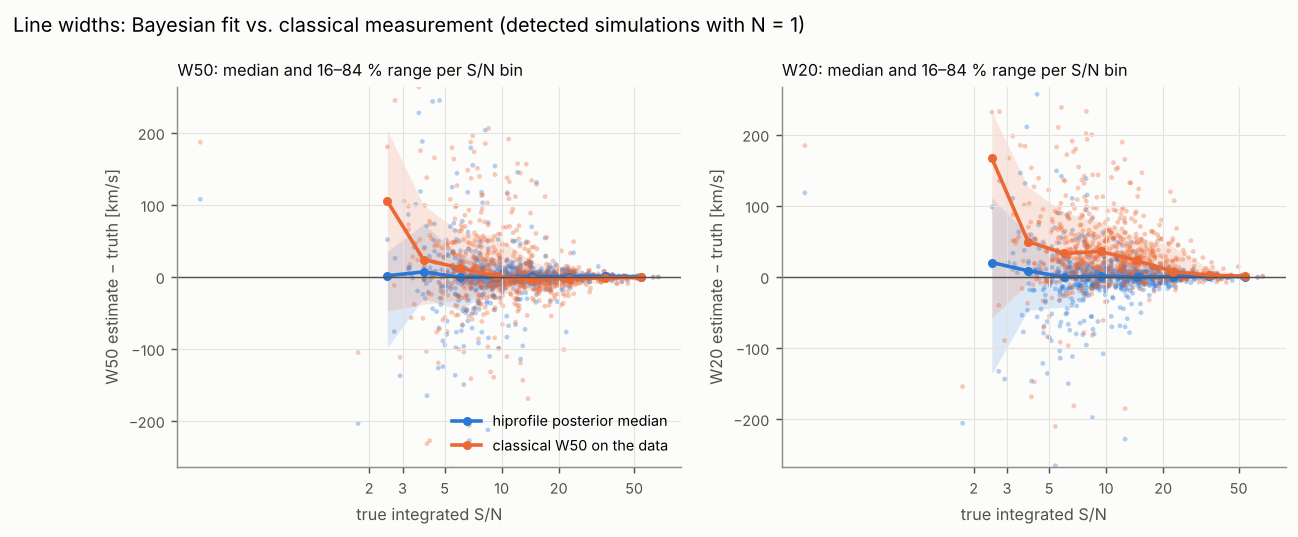
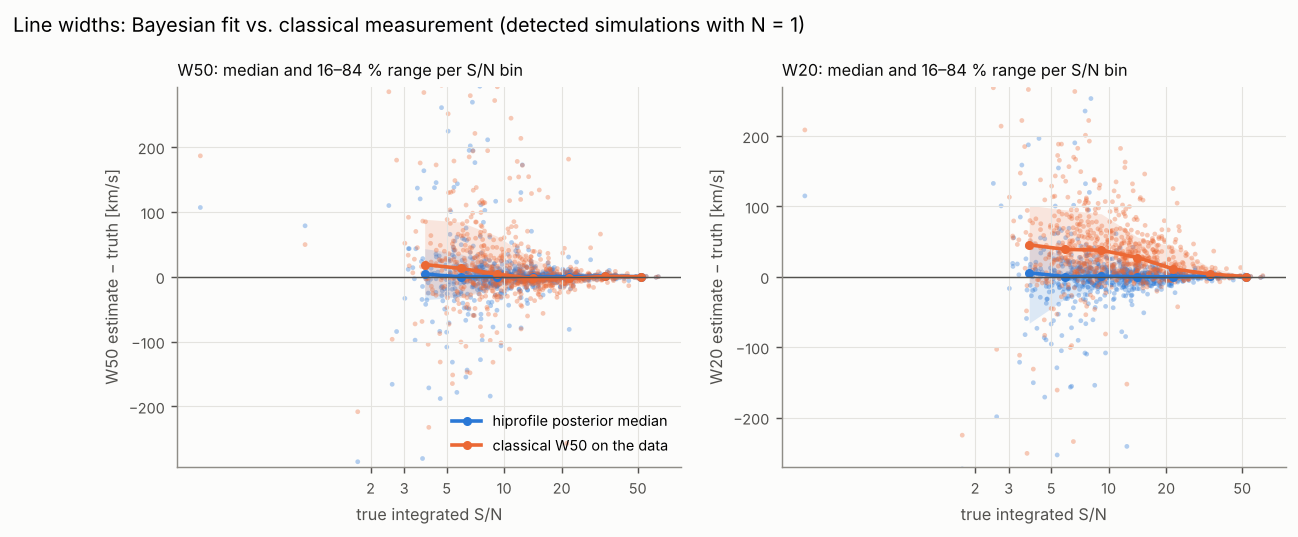
Validation with the Beta(1, 3) f prior: SBC, bias study, gallery
SBC with simulations drawn from the new prior stays calibrated (rank
p > 0.2, coverages 0.66-0.70 and 0.94-0.96); prior_edge falls from 7.2 to
5.7 %. The pull of the posterior median on a 430 km/s line at S/N 5
halves (-45 -> -20 km/s).

Claude-Session: https://claude.ai/code/session_01HNuVsUUJVtD1RaQHWi7F3J

diff --git a/docs/validation.md b/docs/validation.md
@@ -17,25 +17,26 @@ bias study.
 Every simulation is drawn from the fit priors: the five shape parameters,
 the flux (half-normal with the default `amplitude_scale`), and a Chebyshev
 baseline of order K ~ U{0, …, 3} with coefficients from the baseline prior;
-white noise with σ = 0.01 Jy on 512 channels of 5 km/s. The fit uses the same
+white noise with σ = 0.01 Jy on 512 channels of 5 km/s. The solid-body
+fraction comes from its default prior Beta(1, 3). The fit uses the same
 priors with the order marginalised (`k_min = 0`, `k_max = 3`). The rank of
 the truth among 99 posterior draws must then be uniform, and the posterior
 intervals must cover the truth at their nominal rate.
 
 | parameter | rank p-value | 68 % coverage | 95 % coverage |
 |---|---|---|---|
-| v_ctr | 0.55 | 0.68 | 0.96 |
-| Δv | 0.78 | 0.68 | 0.94 |
-| Δv_rand | 0.71 | 0.69 | 0.95 |
-| α | 0.74 | 0.67 | 0.95 |
-| S | 0.30 | 0.67 | 0.95 |
-| f | 0.31 | 0.70 | 0.94 |
-| W50 | 0.84 | 0.69 | 0.94 |
-| W20 | 0.54 | 0.69 | 0.94 |
+| v_ctr | 0.77 | 0.69 | 0.96 |
+| Δv | 0.52 | 0.68 | 0.94 |
+| Δv_rand | 0.43 | 0.69 | 0.94 |
+| α | 0.22 | 0.66 | 0.95 |
+| S | 0.63 | 0.67 | 0.95 |
+| f | 0.31 | 0.70 | 0.95 |
+| W50 | 0.88 | 0.70 | 0.95 |
+| W20 | 0.99 | 0.67 | 0.94 |
 
 ![SBC: rank histograms, interval coverage and baseline-order calibration](img/sbc.png)
 
-All rank histograms are flat (no U shape, slope or peak; all p > 0.3), and
+All rank histograms are flat (no U shape, slope or peak; all p > 0.2), and
 the 68 % and 95 % coverages lie inside the ±2σ bands for 1000 simulations
 (0.65–0.71 and 0.94–0.96). The simulations that are not detected (faint
 draws of the half-normal flux prior, about a quarter) take part in the
@@ -50,27 +51,27 @@ probable K) is one-sided:
 ```
   266      2      0      0
    14    229      0      0
-    6     14    220      0
-    2      6     25    216
+    5     13    222      0
+    2      6     26    215
 ```
 
 A true K = 3 whose highest coefficients happen to be small is read as K = 2
-(25 of 249), which is the right answer for terms the data cannot see; the
+(26 of 249), which is the right answer for terms the data cannot see; the
 reverse, a spurious high order, almost never happens.
 
-**Flags.** 12.7 % of the fits carry a flag: `prior_edge` 7.2 % (Δv_rand at
-its 4 km/s bound or f at 0/1 for faint, narrow lines), `prior_dominated`
-3.1 %, `wiggle` 2.2 %, `ppp` 0.9 %, `multimodal` 0.8 %. The simulations
+**Flags.** 11.1 % of the fits carry a flag: `prior_edge` 5.7 % (Δv_rand at
+its 4 km/s bound for faint, narrow lines), `prior_dominated` 3.1 %,
+`wiggle` 2.1 %, `multimodal` 1.1 %, `ppp` 1.0 %. The simulations
 include the faint end of the flux prior, where the width is not measurable.
 
 The same simulations measured against the truth (detected ones, N = 1):
 
 | quantity | Bayes bias | Bayes scatter | classical bias | classical scatter |
 |---|---|---|---|---|
-| W50 [km/s] | 0.4 | 10.6 | −0.9 | 19.3 |
-| W20 [km/s] | 0.3 | 12.6 | 22.7 | 33.0 |
-| S [Jy km/s] | −0.01 | 0.36 | 0.03 | 0.39 |
-| v_sys [km/s] | −0.2 | 4.7 | 0.1 | 8.2 |
+| W50 [km/s] | 0.4 | 9.8 | 0.2 | 18.6 |
+| W20 [km/s] | 0.4 | 11.6 | 26.0 | 35.1 |
+| S [Jy km/s] | 0.00 | 0.36 | 0.03 | 0.40 |
+| v_sys [km/s] | −0.2 | 4.6 | 0.1 | 8.2 |
 
 ![Line widths: Bayesian fit against the classical measurement](img/bayes_vs_classic.png)
 
@@ -87,6 +88,9 @@ centre):
 ## Stage 2: detection and confusion
 
 `hiprofile validate --stage detection --n 200 --seed 21 --jobs 4`
+
+(Stages 2 and 3 ran before the solid-body prior changed from uniform to
+Beta(1, 3); they test detection and flags, which hardly depend on it.)
 
 200 spectra with N = 0, 1, 2 (probabilities 0.4, 0.4, 0.2), integrated
 S/N 2–40 per component, a first-order baseline and single-channel RFI
@@ -168,21 +172,24 @@ prior*. For a given galaxy the posterior median is still pulled towards
 typical values when the data are weak. The bias study fixes the true profile
 on a grid of widths (Δv = 20–400 km/s, Δv_rand = 12 km/s, α = 0.1,
 f = 0.25) and integrated S/N (3–40), simulates 20 spectra per cell and fits
-them with the default (THINGS) priors and with flat priors (log-uniform
-Δv and Δv_rand, uniform α and f).
+them with the default (THINGS) priors, f ~ Beta(1, 3) included, and with
+flat priors (log-uniform Δv and Δv_rand, uniform α and f).
 
 ![Conditional bias of W50 for fixed true profiles](img/bias_study.png)
 
-* From S/N 8 upwards both prior sets are unbiased to within a few km/s
-  (default priors: |bias| ≤ 7 km/s in every cell), while the classical W50
-  of wide profiles is biased by up to +37 km/s.
-* At S/N 5 the default priors pull a 430 km/s line down by 45 km/s and a
-  48 km/s line up by 17 km/s; the flat priors pull the wide line down by
+* From S/N 8 upwards both prior sets are unbiased to within about 10 km/s
+  (default priors: |bias| ≤ 10 km/s in every cell, ≤ 5 km/s from S/N 15),
+  while the classical W50 of wide profiles is biased by up to +37 km/s.
+* At S/N 5 the default priors pull a 430 km/s line down by 20 km/s and a
+  48 km/s line up by 18 km/s; the flat priors pull the wide line down by
   130 km/s. A flat prior is therefore *not* the unbiased choice: the
   log-uniform width prior puts most of its mass at small widths, and the
   faint wings of a wide line are lost in the noise and the baseline whatever
-  the prior. With the THINGS priors the shrinkage is smaller everywhere
-  except for the narrowest lines.
+  the prior. With the THINGS priors the shrinkage is as small or smaller
+  everywhere except for the narrowest lines. The Beta(1, 3) prior on f
+  halved the pull on the 430 km/s line (−45 km/s with a uniform f), because
+  a dome-shaped solid-body profile no longer competes with the faint
+  double horn.
 * These cells carry the `prior_dominated` flag in up to half of the fits
   (constraint on Δv below 0.3): the width of a line at S/N ≤ 5 is a
   statement of the prior, not a measurement.

diff --git a/docs/priors.md b/docs/priors.md
@@ -63,8 +63,8 @@ boundary, and `prior_dominated` marks fits whose Δv posterior is not much
 narrower than the prior (the width is then a prior statement, not a
 measurement). The bias study in [Validation](validation.md#conditional-bias-default-against-flat-priors)
 measures the pull for fixed true profiles: from S/N 8 upwards the posterior
-median of W50 is unbiased to within a few km/s; at S/N 5 a 430 km/s line is
-pulled down by 45 km/s with these priors and by 130 km/s with flat
+median of W50 is unbiased to within about 10 km/s; at S/N 5 a 430 km/s line
+is pulled down by 20 km/s with these priors and by 130 km/s with flat
 (log-uniform) priors, so the THINGS priors are kept as defaults.
 
 ![Conditional bias of W50 for default and flat priors](img/bias_study.png)
